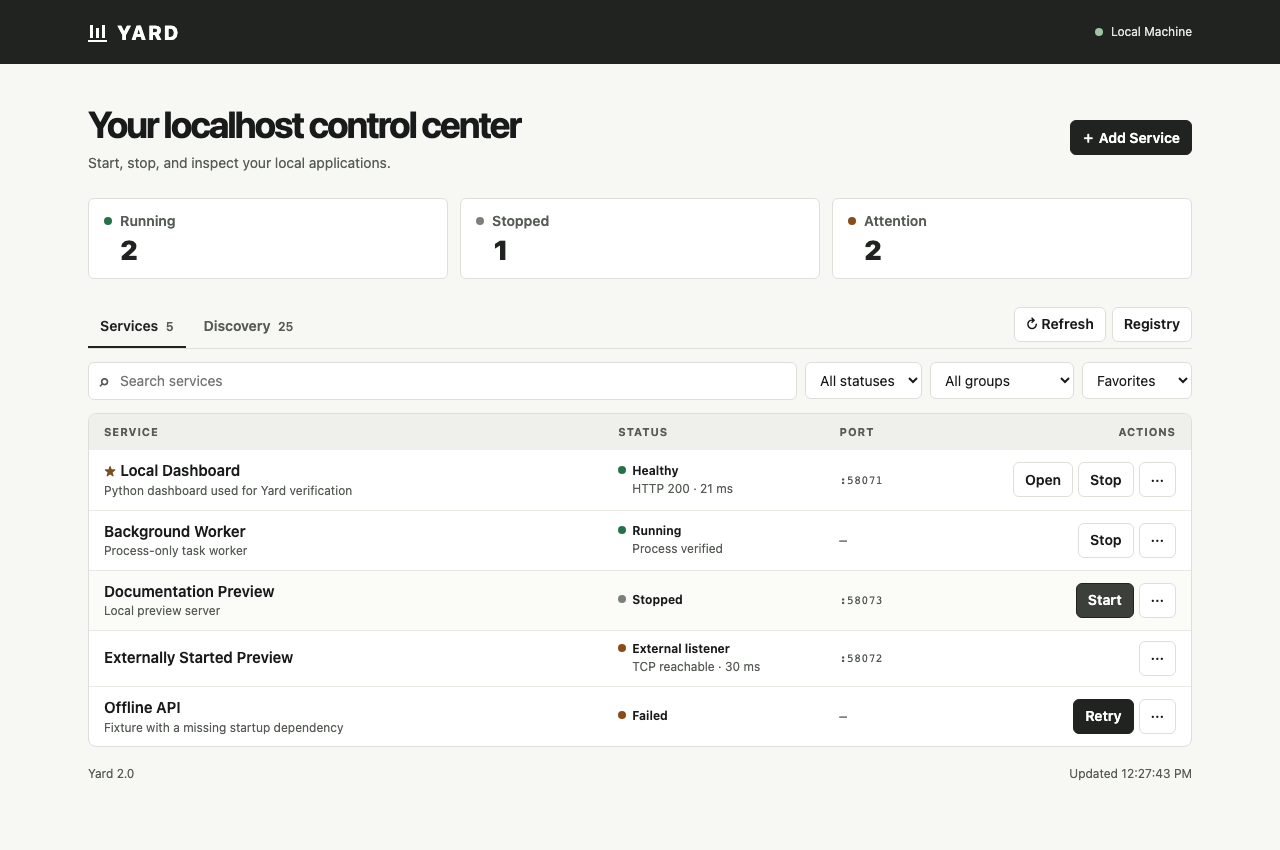
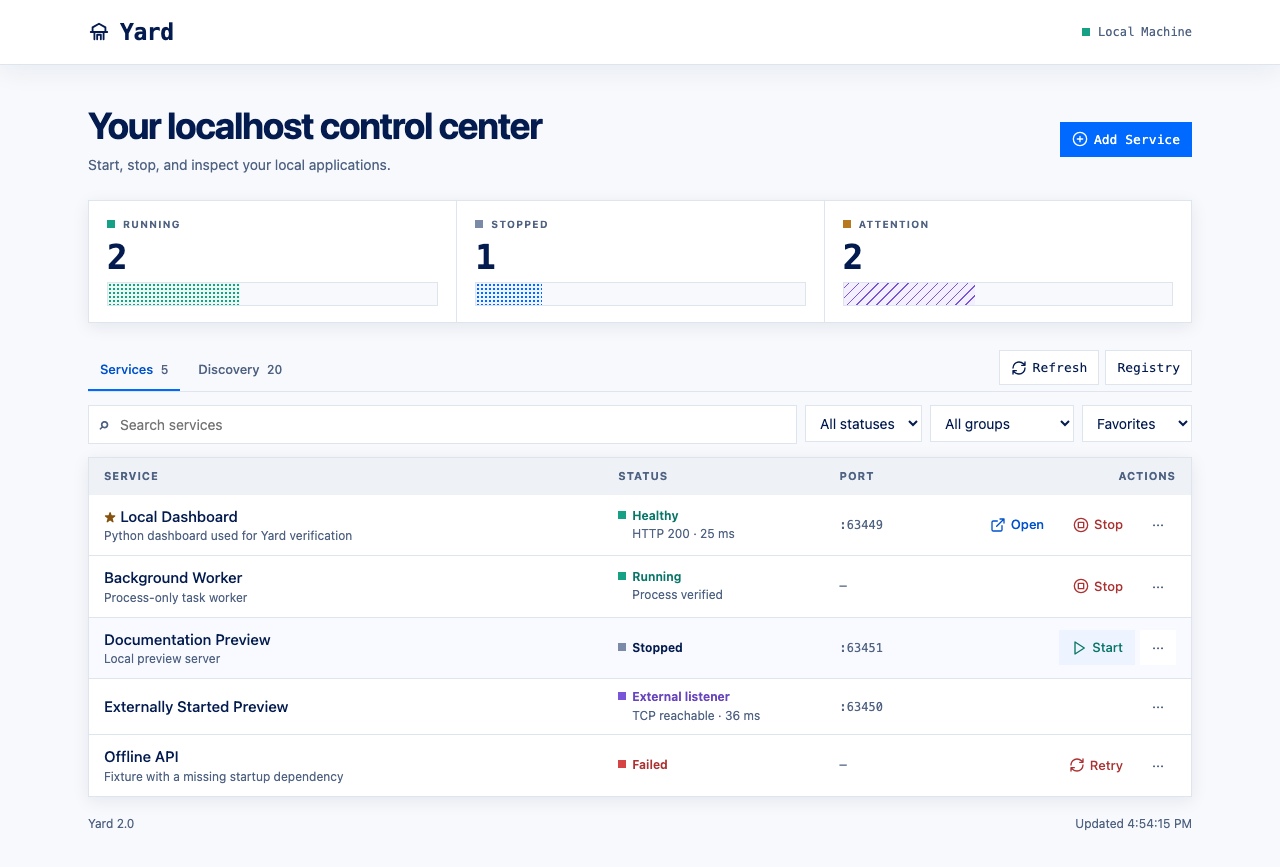
Restore Yard’s original visual styling

diff --git a/static/yard.css b/static/yard.css
@@ -1,78 +1,140 @@
-:root{font-family:Inter,-apple-system,BlinkMacSystemFont,"Segoe UI",sans-serif;color:#191b1a;background:#f7f7f4;font-size:14px;line-height:1.45;--line:#dedfd9;--muted:#565b55;--paper:#fff;--ink:#20231f;--green:#25724a;--amber:#8a4b17}
+:root {
+  color: #031b4e;
+  background: #f7f9fc;
+  font: 14px/1.5 -apple-system, BlinkMacSystemFont, Inter, "Segoe UI", Helvetica, Arial, sans-serif;
+  --ink: #031b4e;
+  --muted: #4f6282;
+  --hint: #7b8ba7;
+  --paper: #fff;
+  --surface: #eef2f7;
+  --line: #dfe5ee;
+  --blue: #0069ff;
+  --blue-ink: #0052cc;
+  --blue-muted: #eef4ff;
+  --green: #16a085;
+  --green-ink: #087568;
+  --amber: #b7791f;
+  --amber-ink: #85530e;
+  --red: #d64545;
+  --red-ink: #ab3232;
+  --purple: #7956d8;
+  --purple-ink: #6844bd;
+  --shadow: 0 4px 16px rgba(3, 27, 78, .08);
+  --mono: ui-monospace, SFMono-Regular, Menlo, Monaco, Consolas, "Liberation Mono", monospace;
+}
 *{box-sizing:border-box}
 body{margin:0}
 [hidden]{display:none!important}
 .shell{max-width:1168px;margin:auto;padding-inline:32px}
-.masthead{background:#20231f;color:#fff}
+.masthead{position:sticky;top:0;z-index:3;background:var(--paper);border-bottom:1px solid var(--line);box-shadow:0 8px 24px rgba(3,27,78,.06)}
 .header-inner{height:64px;display:flex;justify-content:space-between;align-items:center}
-.brand{display:flex;align-items:center;gap:10px;font-size:20px;font-weight:800;letter-spacing:.11em}
-.brand-mark{display:flex;gap:3px;align-items:end;height:19px;padding:2px;border-bottom:2px solid #fff}
-.brand-mark i{width:3px;height:13px;background:#fff}
-.brand-mark i:nth-child(2){height:10px}
-.machine{display:flex;align-items:center;gap:8px;font-size:12px;color:#e2e5df}
-.machine-dot,.dot{display:inline-block;width:8px;height:8px;border-radius:50%;background:#7b8078;flex:none}
-.machine-dot{background:#9cc5a6}
-.dot.good{background:var(--green)}
+.brand{display:flex;align-items:center;gap:10px;font:700 23px/1 var(--mono);letter-spacing:-.02em}
+.brand .icon{width:22px;height:22px}
+.machine{display:flex;align-items:center;gap:8px;font:500 12px/1.4 var(--mono);color:var(--muted)}
+.machine-dot,.dot{display:inline-block;width:8px;height:8px;background:var(--hint);flex:none}
+.machine-dot,.dot.good{background:var(--green)}
 .dot.warn{background:var(--amber)}
+.dot.bad{background:var(--red)}
+.dot.external{background:var(--purple)}
+button>.icon,.action-link>.icon{vertical-align:middle;margin-right:3px}
+.toolbar button>.icon,.intro>button>.icon,.row-actions button>.icon,.row-actions .action-link>.icon{margin-right:0}
+.icon{width:16px;height:16px;flex:none;fill:none;stroke:currentColor;stroke-width:2;stroke-linecap:round;stroke-linejoin:round}
 .intro{margin:39px 0 25px;display:flex;justify-content:space-between;gap:15px;align-items:center}
 h1,h2,p{margin:0}
-h1{font-size:clamp(27px,4vw,37px);line-height:1.15;letter-spacing:-.055em}
+h1{font-size:clamp(27px,4vw,37px);line-height:1.15;letter-spacing:-.035em}
 h2{font-size:19px;letter-spacing:-.025em}
 .intro p,.discover-header p,.discover-projects p{color:var(--muted);margin-top:7px}
 button,input,select{font:inherit;color:inherit}
-button,.action-link{border:1px solid var(--line);background:var(--paper);border-radius:6px;min-height:35px;padding:6px 11px;cursor:pointer;font-weight:600;white-space:nowrap}
-button:hover,.action-link:hover{background:#efefeb}
+button,.action-link{border:1px solid var(--line);background:var(--paper);min-height:35px;padding:6px 11px;cursor:pointer;font-size:13px;font-weight:500;white-space:nowrap}
+button:hover,.action-link:hover{background:var(--blue-muted)}
 button:disabled{cursor:wait;opacity:.6}
-button.primary{background:var(--ink);color:#fff;border-color:var(--ink)}
-button.primary:hover{background:#3b413a}
-:focus-visible{outline:3px solid #426b8c;outline-offset:3px}
-.metrics{display:grid;grid-template-columns:repeat(3,minmax(0,1fr));gap:12px}
-.metrics button{display:grid;grid-template-columns:auto 1fr;gap:5px 8px;align-items:center;text-align:left;padding:12px 15px;color:var(--muted)}
-.metrics strong{grid-column:2;font-size:27px;line-height:1.1;color:var(--ink);font-variant-numeric:tabular-nums}
-.metrics button[aria-pressed="true"]{border-color:#454b43}
+button.primary{background:var(--blue);color:#fff;border-color:var(--blue)}
+button.primary:hover{background:var(--blue-ink)}
+:focus-visible{outline:2px solid var(--blue);outline-offset:3px}
+.metrics{
+  display:grid;
+  grid-template-columns:repeat(3,minmax(0,1fr));
+  border:1px solid var(--line);
+  background:var(--paper);
+  box-shadow:var(--shadow);
+}
+.metrics button{
+  display:grid;
+  grid-template-columns:auto 1fr;
+  gap:8px;
+  align-items:center;
+  text-align:left;
+  padding:16px 18px;
+  border:0;
+  color:var(--muted);
+}
+.metrics button+button{border-left:1px solid var(--line)}
+.metrics button span:nth-child(2){font-size:10px;font-weight:700;letter-spacing:.12em;text-transform:uppercase}
+.metrics strong{grid-column:1/-1;font:700 34px/1 var(--mono);letter-spacing:-.04em;color:var(--ink)}
+.metrics button[aria-pressed="true"]{box-shadow:inset 0 -2px var(--blue)}
+.dither-track{grid-column:1/-1;width:100%;height:24px;appearance:none;border:1px solid var(--line);color:var(--blue);background:#f7f9fc}
+.dither-track::-webkit-progress-bar{background:#f7f9fc}
+.dither-track::-webkit-progress-value{background-color:#edf4ff;background-image:radial-gradient(currentColor 1px,transparent 1.15px);background-size:4px 4px}
+.dither-track::-moz-progress-bar{background-color:#edf4ff;background-image:radial-gradient(currentColor 1px,transparent 1.15px);background-size:4px 4px}
+[data-status="running"] .dither-track{color:var(--green)}
+[data-status="running"] .dither-track::-webkit-progress-value{background-color:#eaf8f4}
+[data-status="running"] .dither-track::-moz-progress-bar{background-color:#eaf8f4}
+[data-status="attention"] .dither-track{color:var(--purple)}
+[data-status="attention"] .dither-track::-webkit-progress-value{background:#f3efff repeating-linear-gradient(135deg,transparent 0 3px,currentColor 3px 4px,transparent 4px 7px)}
+[data-status="attention"] .dither-track::-moz-progress-bar{background:#f3efff repeating-linear-gradient(135deg,transparent 0 3px,currentColor 3px 4px,transparent 4px 7px)}
 .section-bar{display:flex;justify-content:space-between;align-items:center;gap:10px;margin-top:27px;border-bottom:1px solid var(--line)}
 nav,.toolbar{display:flex;gap:6px}
 nav button{border:0;border-bottom:2px solid transparent;background:transparent;border-radius:0;color:var(--muted);padding:10px 12px}
-nav button[aria-current="page"]{color:var(--ink);border-color:var(--ink)}
+nav button[aria-current="page"]{color:var(--blue-ink);border-color:var(--blue)}
 nav button span{margin-left:4px;color:var(--muted);font-size:12px}
 .toolbar{padding-bottom:5px}
+.toolbar button,.intro>button{display:inline-flex;align-items:center;gap:6px;font-family:var(--mono)}
 .filters{display:flex;gap:8px;margin:13px 0}
-input:not([type=checkbox]),select{min-width:0;border:1px solid var(--line);border-radius:6px;background:#fff;padding:8px 10px;min-height:36px}
+input:not([type=checkbox]),select{min-width:0;border:1px solid var(--line);background:#fff;padding:8px 10px;min-height:36px}
 .search{flex:1;display:flex;align-items:center;position:relative;min-width:110px}
 .search span{position:absolute;left:10px;font-size:20px;color:var(--muted);pointer-events:none}
 .search input{width:100%;padding-left:31px}
-.service-table,.discovery-list:not(:empty){background:var(--paper);border:1px solid var(--line);border-radius:8px;overflow:clip}
+.service-table,.discovery-list:not(:empty){background:var(--paper);border:1px solid var(--line);box-shadow:var(--shadow)}
 .list-heading,.service-row{display:grid;grid-template-columns:minmax(190px,2.4fr) minmax(125px,1fr) minmax(61px,.55fr) minmax(174px,1fr);gap:12px;align-items:center;padding:10px 15px}
-.list-heading{color:var(--muted);background:#efefeb;font-size:11px;text-transform:uppercase;letter-spacing:.08em;font-weight:700}
+.list-heading{color:var(--muted);background:var(--surface);font-size:11px;text-transform:uppercase;letter-spacing:.08em;font-weight:700}
 .list-heading span:last-child{text-align:right}
 ul{margin:0;padding:0;list-style:none}
-.service-row+.service-row,.discovery-row+.discovery-row{border-top:1px solid #e8e9e3}
-.service-row:hover,.discovery-row:hover{background:#fbfbf8}
+.service-row+.service-row,.discovery-row+.discovery-row{border-top:1px solid var(--line)}
+.service-row:hover,.discovery-row:hover{background:#f8faff}
 .name-block{min-width:0}
-.name-button{display:inline;white-space:normal;text-align:left;padding:0;border:0;min-height:0;border-radius:2px;background:transparent;font-size:15px}
+.name-button{display:inline;white-space:normal;text-align:left;padding:0;border:0;min-height:0;background:transparent;font-size:15px}
 .name-button:hover{background:transparent;text-decoration:underline}
 .name-block p,.status small,.discovery-row small{display:block;color:var(--muted);font-size:12px;overflow-wrap:anywhere}
-.favorite{color:#775025;font-size:12px;padding-right:4px}
+.favorite{color:var(--amber-ink);font-size:12px;padding-right:4px}
 .status{min-width:0;font-size:12px;font-weight:650;line-height:1.35}
 .status .dot{margin-right:6px;vertical-align:1px}
 .status small{font-weight:400;padding-left:14px;margin-top:2px}
-.port{font:12px ui-monospace,SFMono-Regular,monospace;color:#4f5650}
+.port{font:12px var(--mono);color:var(--muted)}
 .row-actions{display:flex;align-items:center;justify-content:flex-end;gap:5px}
-.action-link{text-decoration:none;display:inline-flex;align-items:center;color:inherit}
-.more{min-width:35px}
-.menu{position:fixed;z-index:2;min-width:130px;display:grid;gap:4px;padding:5px;border:1px solid var(--line);border-radius:7px;background:#fff;box-shadow:0 7px 24px #0002}
-.menu button{text-align:left;border-color:transparent}
+.row-actions button,.action-link{display:inline-flex;align-items:center;justify-content:center;gap:5px;border-color:transparent;text-decoration:none}
+.action-link{color:var(--blue-ink)}
+.action-start{color:var(--green-ink)}
+.action-stop,.action-retry{color:var(--red-ink)}
+.action-restart{color:var(--purple-ink)}
+.action-logs{color:var(--amber-ink)}
+.more{min-width:35px;color:var(--muted)}
+.status.good{color:var(--green-ink)}
+.status.warn{color:var(--amber-ink)}
+.status.bad{color:var(--red-ink)}
+.status.external{color:var(--purple-ink)}
 .empty{padding:31px 15px;color:var(--muted);text-align:center}
-#notice,#diagnostics{margin-top:10px;padding:8px 12px;border:1px solid var(--line);border-radius:6px;background:#fff}
-.form-error,.error{color:#912e23}
+#notice,#diagnostics{margin-top:10px;padding:8px 12px;border:1px solid var(--line);background:#fff}
+#notice{border-color:var(--green);background:#eaf8f4}
+#notice.error,.form-error,.error{color:var(--red-ink)}
+#notice.error,#diagnostics{border-color:var(--line);background:#fff0f0}
 .discover-header,.discover-projects{padding:16px 0}
 .discover-projects form{display:flex;gap:7px;margin:11px 0}
 .discover-projects form input{width:min(100%,420px)}
 .discovery-row{display:flex;align-items:center;justify-content:space-between;gap:12px;padding:11px 15px}
 .discovery-row strong{display:block}
 footer{display:flex;justify-content:space-between;gap:10px;color:var(--muted);font-size:12px;margin:18px 0 34px}
-dialog{max-width:min(610px,calc(100% - 24px));width:100%;max-height:calc(100% - 24px);border:1px solid var(--line);border-radius:10px;padding:20px;color:var(--ink);box-shadow:0 12px 60px #0003}
-dialog::backdrop{background:#1a1d1a80}
+dialog{max-width:min(610px,calc(100% - 24px));width:100%;max-height:calc(100% - 24px);border:1px solid var(--line);padding:20px;color:var(--ink);box-shadow:0 12px 60px rgba(3,27,78,.19)}
+dialog::backdrop{background:rgba(3,27,78,.55)}
 .dialog-head{display:flex;align-items:center;justify-content:space-between;gap:12px;margin-bottom:12px}
 .dialog-head button{font-size:19px}
 .dialog-actions{display:flex;justify-content:flex-end;flex-wrap:wrap;gap:7px;margin-top:14px}
@@ -85,14 +147,16 @@ summary{cursor:pointer;font-weight:650}
 dl{display:grid;grid-template-columns:minmax(94px,1fr) 3fr;gap:6px 12px;font-size:13px}
 dd{margin:0;overflow-wrap:anywhere}
 dt{color:var(--muted)}
-pre{white-space:pre-wrap;overflow-wrap:anywhere;max-height:240px;overflow:auto;background:#efefeb;border-radius:6px;padding:10px}
-textarea{width:100%;min-height:130px;font:12px ui-monospace,monospace;margin-top:7px}
+pre{white-space:pre-wrap;overflow-wrap:anywhere;max-height:240px;overflow:auto;background:var(--surface);padding:10px}
+textarea{width:100%;min-height:130px;font:12px var(--mono);margin-top:7px}
 .sr-only{position:absolute;width:1px;height:1px;padding:0;margin:-1px;overflow:hidden;clip-path:inset(50%);white-space:nowrap;border:0}
 @media(max-width:760px){.shell{padding-inline:18px}.list-heading{display:none}.service-row{grid-template-columns:1fr auto;gap:5px 9px}.row-actions{grid-column:2;grid-row:1/3}.port{grid-column:1}.filters{flex-wrap:wrap}.search{flex-basis:100%}}
-@media(max-width:410px){.shell{padding-inline:12px}.intro{align-items:flex-start;flex-direction:column;margin-top:23px}.metrics{gap:6px}.metrics button{padding:8px}.filters select{max-width:116px}.row-actions{gap:3px}.row-actions button,.action-link{padding-inline:7px}.machine{font-size:11px}}
+@media(max-width:410px){.shell{padding-inline:12px}.intro{align-items:flex-start;flex-direction:column;margin-top:23px}.metrics button{padding:8px}.metrics strong{font-size:27px}.dither-track{height:16px}.filters select{max-width:116px}.row-actions{gap:3px}.row-actions button,.action-link{padding-inline:7px}.machine{font-size:11px}}
 @media(prefers-reduced-motion:reduce){*,*::before,*::after{scroll-behavior:auto!important;animation:none!important;transition:none!important}}
 @media(max-width:410px){
   .section-bar{flex-wrap:wrap}
   .toolbar{margin-left:auto}
 }
 .discovery-row > div{min-width:0;overflow-wrap:anywhere}
+
+@media(max-width:410px){.row-actions .icon{width:13px;height:13px}.row-actions button,.action-link{gap:3px}}

diff --git a/static/yard.js b/static/yard.js
@@ -19,6 +19,28 @@ function element(tag, text, className) {
   return node;
 }
 
+const iconPaths = {
+  open: 'M15 3h6v6M10 14 21 3M18 13v6a2 2 0 0 1-2 2H5a2 2 0 0 1-2-2V8a2 2 0 0 1 2-2h6',
+  start: 'M6 3l14 9-14 9V3z',
+  stop: 'M22 12a10 10 0 1 1-20 0 10 10 0 0 1 20 0zM8 8h8v8H8z',
+  restart: 'M3 12a9 9 0 0 1 9-9 9.75 9.75 0 0 1 6.74 2.74L21 8m0-5v5h-5m5 4a9 9 0 0 1-9 9 9.75 9.75 0 0 1-6.74-2.74L3 16m5 0H3v5',
+  force: 'M7.86 2h8.28L22 7.86v8.28L16.14 22H7.86L2 16.14V7.86zM12 8v5m0 4h.01',
+  logs: 'M15 2H6a2 2 0 0 0-2 2v16a2 2 0 0 0 2 2h12a2 2 0 0 0 2-2V7zM14 2v4a2 2 0 0 0 2 2h4M8 9h2m-2 4h8m-8 4h8',
+};
+
+function addIcon(node, name) {
+  const ns = 'http://www.w3.org/2000/svg';
+  const icon = document.createElementNS(ns, 'svg');
+  const path = document.createElementNS(ns, 'path');
+  icon.setAttribute('class', 'icon');
+  icon.setAttribute('aria-hidden', 'true');
+  icon.setAttribute('viewBox', '0 0 24 24');
+  path.setAttribute('d', iconPaths[name]);
+  icon.append(path);
+  node.prepend(icon);
+  return node;
+}
+
 function button(text, action, className) {
   const node = element('button', text, className);
   node.type = 'button';
@@ -80,19 +102,19 @@ function health(service) {
 
 function classify(service) {
   if (busy.has(service.id)) return [busy.get(service.id), 'attention', 'warn'];
-  if (service.untracked) return ['External listener', 'attention', 'warn'];
+  if (service.untracked) return ['External listener', 'attention', 'external'];
   if (service.state === 'stopped') {
     return [service.enabled ? 'Stopped' : 'Disabled', 'stopped', ''];
   }
   if (service.state === 'running') {
     if (['unhealthy', 'timeout', 'connection_failed', 'not_http'].includes(service.health_status) && !service.sensitive) {
-      return ['Unhealthy', 'attention', 'warn'];
+      return ['Unhealthy', 'attention', service.health_status === 'timeout' ? 'warn' : 'bad'];
     }
     if (service.diagnostic) return ['Needs attention', 'attention', 'warn'];
     return [service.health_status === 'healthy' ? 'Healthy' : 'Running', 'running', 'good'];
   }
   const labels = {starting: 'Starting', stopping: 'Stopping', failed: 'Failed', unknown: 'Unknown'};
-  return [labels[service.state] || 'Unknown', 'attention', 'warn'];
+  return [labels[service.state] || 'Unknown', 'attention', service.state === 'failed' ? 'bad' : 'warn'];
 }
 
 function switchView(next) {
@@ -117,6 +139,9 @@ function render() {
   const selectedStatus = $('status').value;
   for (const metric of document.querySelectorAll('[data-status]')) {
     metric.setAttribute('aria-pressed', String(metric.dataset.status === selectedStatus));
+    const track = metric.querySelector('progress');
+    track.max = Math.max(1, registered.length);
+    track.value = totals[metric.dataset.status];
   }
   const groups = [...new Set(registered.map(service => service.group))].sort();
   if (groups.join('\0') !== [...$('group').options].slice(1).map(option => option.value).join('\0')) {
@@ -176,7 +201,7 @@ function serviceRow(service) {
   }
   name.append(details, element('p', service.description || (service.group === 'Ungrouped' ? '' : service.group)));
   const [label, , style] = classify(service);
-  const state = element('div', null, 'status');
+  const state = element('div', null, `status ${style}`);
   state.append(element('span', null, `dot ${style}`), document.createTextNode(label));
   if (!busy.has(service.id) && health(service) && service.state === 'running') state.append(element('small', health(service)));
   const port = element('span', service.port ? `:${service.port}` : '—', 'port');
@@ -186,13 +211,15 @@ function serviceRow(service) {
     if (open) {
       open.dataset.focus = `${service.id}-open`;
       open.setAttribute('aria-label', `Open ${service.name}`);
-      actions.append(open);
+      actions.append(addIcon(open, 'open'));
     }
   }
   if (service.actions.start || service.actions.stop) {
     const action = service.actions.stop ? 'stop' : 'start';
     const label = action === 'stop' ? 'Stop' : service.state === 'failed' ? 'Retry' : 'Start';
-    const primary = button(label, () => lifecycle(service, action), action === 'start' ? 'primary' : '');
+    const color = label === 'Retry' ? 'retry' : action;
+    const primary = addIcon(button(label, () => lifecycle(service, action), `action-${color}`),
+      color === 'retry' ? 'restart' : action);
     primary.dataset.focus = `${service.id}-primary`;
     primary.disabled = busy.has(service.id) || (action === 'stop' && service.state === 'stopping');
     primary.setAttribute('aria-label', `${label} ${service.name}`);
@@ -344,8 +371,8 @@ async function serviceDetails(service) {
     details.append(recent);
   }
   const controls = element('div', null, 'dialog-actions');
-  if (service.actions.restart) controls.append(button('Restart', () => { dialog.close(); lifecycle(service, 'restart'); }));
-  if (service.actions.force_stop) controls.append(button('Force Stop', () => { dialog.close(); lifecycle(service, 'force'); }, 'error'));
+  if (service.actions.restart) controls.append(addIcon(button('Restart', () => { dialog.close(); lifecycle(service, 'restart'); }, 'action-restart'), 'restart'));
+  if (service.actions.force_stop) controls.append(addIcon(button('Force Stop', () => { dialog.close(); lifecycle(service, 'force'); }, 'error'), 'force'));
   try {
     const result = await request('/api/registry');
     if (!details.isConnected) return;
@@ -366,7 +393,7 @@ async function serviceDetails(service) {
   } catch (error) { details.append(element('p', error.message, 'error')); }
   if (!details.isConnected) return;
   const logs = element('details');
-  logs.append(element('summary', 'Recent logs'), log, button('Refresh logs', loadLogs));
+  logs.append(element('summary', 'Recent logs'), log, addIcon(button('Refresh logs', loadLogs, 'action-logs'), 'logs'));
   logs.addEventListener('toggle', () => { if (logs.open) loadLogs(); });
   details.append(logs, controls);
 }

diff --git a/static/index.html b/static/index.html
@@ -12,19 +12,19 @@
 <body>
   <header class="masthead">
     <div class="shell header-inner">
-      <div class="brand"><span class="brand-mark" aria-hidden="true"><i></i><i></i><i></i></span> YARD</div>
+      <div class="brand"><svg class="icon" viewBox="0 0 24 24" aria-hidden="true"><path d="M3 12h18M5 12V7l7-4 7 4v5M7 12v8m10-8v8m-7 0v-5h4v5"/></svg> Yard</div>
       <span class="machine"><span class="machine-dot"></span> Local Machine</span>
     </div>
   </header>
   <main class="shell">
     <div class="intro">
       <div><h1>Your localhost control center</h1><p>Start, stop, and inspect your local applications.</p></div>
-      <button class="primary" id="add"><span aria-hidden="true">＋</span> Add Service</button>
+      <button class="primary" id="add"><svg class="icon" viewBox="0 0 24 24" aria-hidden="true"><circle cx="12" cy="12" r="10"/><path d="M8 12h8m-4-4v8"/></svg> Add Service</button>
     </div>
     <section class="metrics" aria-label="Registered service totals">
-      <button data-status="running"><span class="dot good"></span><span>Running</span><strong id="running">—</strong></button>
-      <button data-status="stopped"><span class="dot"></span><span>Stopped</span><strong id="stopped">—</strong></button>
-      <button data-status="attention"><span class="dot warn"></span><span>Attention</span><strong id="attention">—</strong></button>
+      <button data-status="running"><span class="dot good"></span><span>Running</span><strong id="running">—</strong><progress class="dither-track" value="0" max="1" aria-hidden="true"></progress></button>
+      <button data-status="stopped"><span class="dot"></span><span>Stopped</span><strong id="stopped">—</strong><progress class="dither-track" value="0" max="1" aria-hidden="true"></progress></button>
+      <button data-status="attention"><span class="dot warn"></span><span>Attention</span><strong id="attention">—</strong><progress class="dither-track" value="0" max="1" aria-hidden="true"></progress></button>
     </section>
     <div class="section-bar">
       <nav aria-label="Yard views">
@@ -32,7 +32,7 @@
         <button id="discovery-tab">Discovery <span id="discovery-count"></span></button>
       </nav>
       <div class="toolbar">
-        <button id="refresh" title="Refresh service status">↻ Refresh</button>
+        <button id="refresh" title="Refresh service status"><svg class="icon" viewBox="0 0 24 24" aria-hidden="true"><path d="M3 12a9 9 0 0 1 9-9 9.75 9.75 0 0 1 6.74 2.74L21 8m0-5v5h-5m5 4a9 9 0 0 1-9 9 9.75 9.75 0 0 1-6.74-2.74L3 16m5 0H3v5"/></svg> Refresh</button>
         <button id="registry">Registry</button>
       </div>
     </div>
